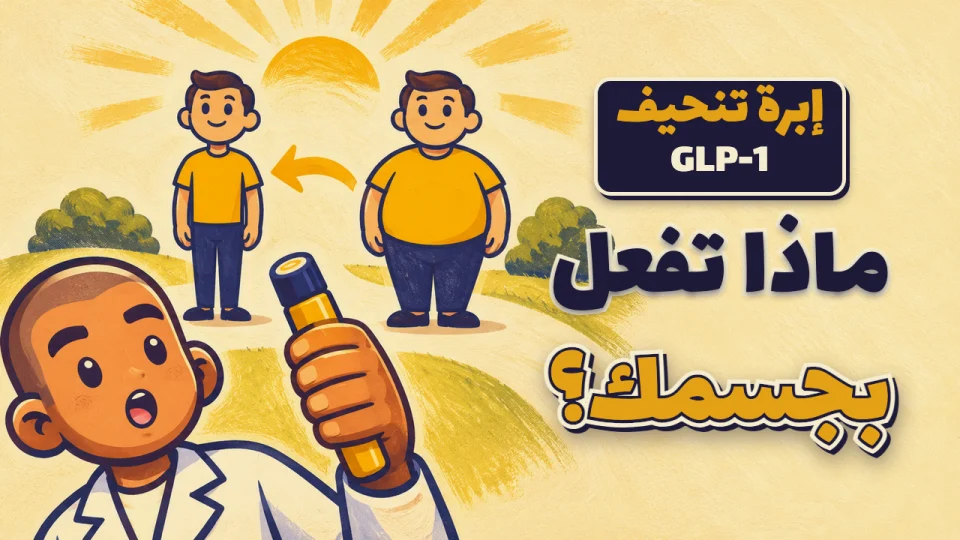
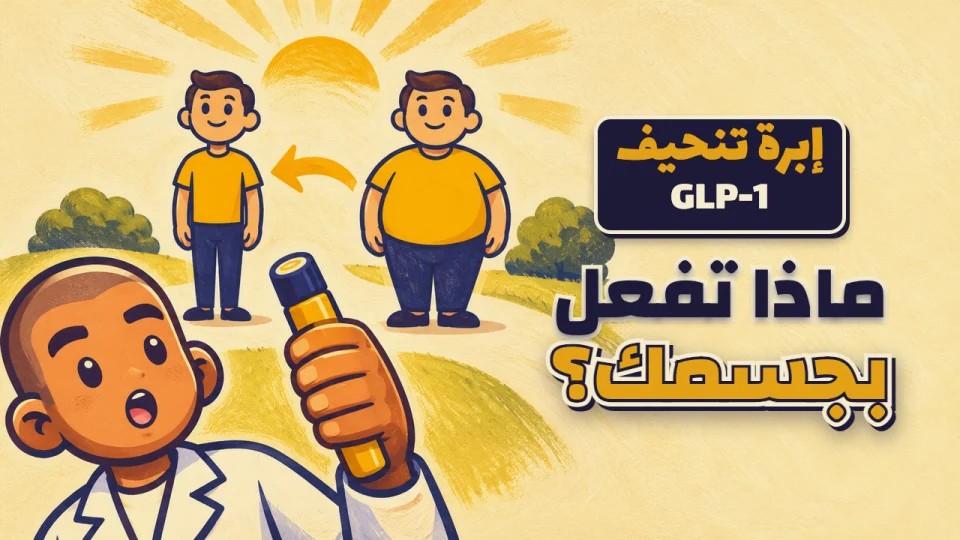
EP5 card thumbnail -> font option 3 (Bowlby One + Changa ExtraBold), Mo 11-07-2026

Changed region(s): [[0.5625, 0.1185, 0.9375, 0.8593]]

diff --git a/index.html b/index.html
@@ -638,8 +638,8 @@ html[data-theme="light"] .f-chem{--c:#A16207!important}
         <div class="ep-card">
           <div class="ep-thumb">
             <span class="ep-pic">
-              <img class="pic-en" src="episodes/assets/ep05/thumb-en-960.webp?v=1107b" srcset="episodes/assets/ep05/thumb-en-960.webp?v=1107b 960w, episodes/assets/ep05/thumb-en.webp?v=1107b 1280w" sizes="(max-width:640px) 92vw, 760px" width="1280" height="720" alt="GLP-1 weight-loss shot: what does it do to your body? Episode 5" loading="lazy">
-              <img class="pic-ar" src="episodes/assets/ep05/thumb-ar-960.webp?v=1107b" srcset="episodes/assets/ep05/thumb-ar-960.webp?v=1107b 960w, episodes/assets/ep05/thumb-ar.webp?v=1107b 1280w" sizes="(max-width:640px) 92vw, 760px" width="1280" height="720" alt="إبرة تنحيف GLP-1: ماذا تفعل بجسمك؟ الحلقة 5" loading="lazy">
+              <img class="pic-en" src="episodes/assets/ep05/thumb-en-960.webp?v=1107c" srcset="episodes/assets/ep05/thumb-en-960.webp?v=1107c 960w, episodes/assets/ep05/thumb-en.webp?v=1107c 1280w" sizes="(max-width:640px) 92vw, 760px" width="1280" height="720" alt="GLP-1 weight-loss shot: what does it do to your body? Episode 5" loading="lazy">
+              <img class="pic-ar" src="episodes/assets/ep05/thumb-ar-960.webp?v=1107c" srcset="episodes/assets/ep05/thumb-ar-960.webp?v=1107c 960w, episodes/assets/ep05/thumb-ar.webp?v=1107c 1280w" sizes="(max-width:640px) 92vw, 760px" width="1280" height="720" alt="إبرة تنحيف GLP-1: ماذا تفعل بجسمك؟ الحلقة 5" loading="lazy">
             </span>
             <span class="ep-strip">
               <img class="logo-en" src="assets/logo-white.png" alt="Addani Labs" width="480" height="151"><img class="logo-ar" src="assets/logo-ar-white.png" alt="مختبرات عداني" width="978" height="210">
